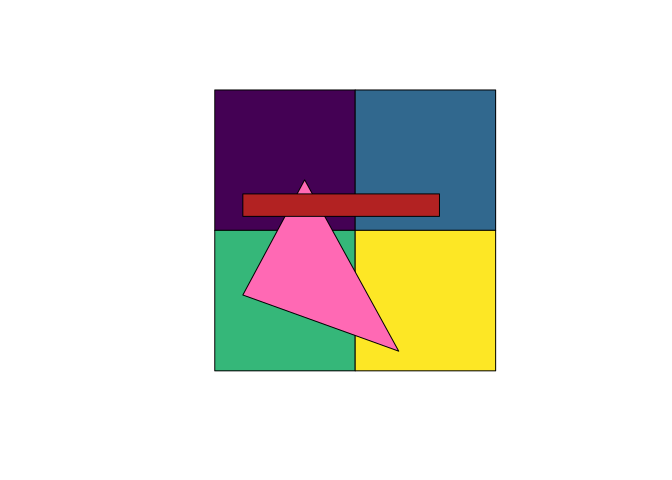
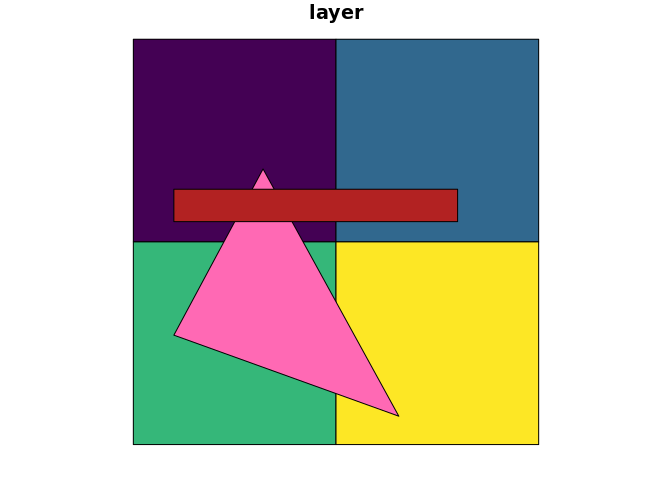
rename

diff --git a/README.md b/README.md
@@ -2,23 +2,23 @@
 <!-- README.md is generated from README.Rmd. Please edit that file -->
 
 [![Travis build
-status](https://travis-ci.org/mdsumner/spacebucket.svg?branch=master)](https://travis-ci.org/mdsumner/spacebucket)
+status](https://travis-ci.org/mdsumner/polymer.svg?branch=master)](https://travis-ci.org/mdsumner/polymer)
 [![AppVeyor build
-status](https://ci.appveyor.com/api/projects/status/github/mdsumner/spacebucket?branch=master&svg=true)](https://ci.appveyor.com/project/mdsumner/spacebucket)
+status](https://ci.appveyor.com/api/projects/status/github/mdsumner/polymer?branch=master&svg=true)](https://ci.appveyor.com/project/mdsumner/polymer)
 [![Coverage
-status](https://codecov.io/gh/mdsumner/spacebucket/branch/master/graph/badge.svg)](https://codecov.io/github/mdsumner/spacebucket?branch=master)
+status](https://codecov.io/gh/mdsumner/polymer/branch/master/graph/badge.svg)](https://codecov.io/github/mdsumner/polymer?branch=master)
 
-# spacebucket
+# polymer
 
-The goal of spacebucket is to provide flexible and intuitive overlay
-methods familiar to GIS workflows. This works by doing the obvious
+The goal of polymer is to provide flexible and intuitive overlay methods
+familiar to GIS workflows. This works by doing the obvious
 finite-element decomposition of all component edges in all inputs into
 triangles. Then triangles *instances* are classified (by
 point-in-polygon lookup) by inclusion within paths within objects within
 layers.
 
 The resulting mesh and inputs and indexes can be used to derive complex
-relationships between layers. Spacebucket is modelled on the concept of
+relationships between layers. polymer is modelled on the concept of
 **data fusion** from a now defunct commercial package called Eonfusion.
 It relies on the RTriangle package which is licensed CC BY-NC-SA 4.0,
 but could be modified to use the less restrictive `decido` package.
@@ -47,7 +47,7 @@ You can install the development version from
 
 ``` r
 # install.packages("devtools")
-devtools::install_github("mdsumner/spacebucket")
+devtools::install_github("mdsumner/polymer")
 ```
 
 ## Example
@@ -56,7 +56,7 @@ This example takes three built in data sets and merges them together as
 an indexed mesh.
 
 ``` r
-library(spacebucket)
+library(polymer)
 plot(sf::st_geometry(A), col = viridis::viridis(nrow(A)))
 plot(sf::st_geometry(B), col = "firebrick", add = TRUE)
 plot(sf::st_geometry(C), col = "dodgerblue", add = TRUE)
@@ -86,7 +86,7 @@ will identify them individually and copy attributes from the input
 layers appropriately.
 
 ``` r
-spacebucket:::sb_intersection(bucket, col = "firebrick")
+polymer:::sb_intersection(bucket, col = "firebrick")
 ```
 
 <img src="man/figures/README-unnamed-chunk-1-1.png" width="100%" />
@@ -94,14 +94,14 @@ spacebucket:::sb_intersection(bucket, col = "firebrick")
 ``` r
 
 ## it works with pairs or with multiple layers
-spacebucket:::sb_intersection(spacebucket(A, B), col = "firebrick")
+polymer:::sb_intersection(spacebucket(A, B), col = "firebrick")
 ```
 
 <img src="man/figures/README-unnamed-chunk-1-2.png" width="100%" />
 
 ``` r
 
-spacebucket:::sb_intersection(spacebucket(C, B), col = "firebrick")
+polymer:::sb_intersection(spacebucket(C, B), col = "firebrick")
 ```
 
 <img src="man/figures/README-unnamed-chunk-1-3.png" width="100%" />
@@ -111,7 +111,7 @@ spacebucket:::sb_intersection(spacebucket(C, B), col = "firebrick")
 
 set.seed(sum(match(unlist(strsplit("spacebucket", "")), letters)))
 ## number of layers is arbitrary
-spacebucket:::sb_intersection(spacebucket(C, B, A, sf::st_jitter(A, 0.1)), col = "firebrick")
+polymer:::sb_intersection(spacebucket(C, B, A, sf::st_jitter(A, 0.1)), col = "firebrick")
 ```
 
 <img src="man/figures/README-unnamed-chunk-1-4.png" width="100%" />
@@ -119,11 +119,8 @@ spacebucket:::sb_intersection(spacebucket(C, B, A, sf::st_jitter(A, 0.1)), col =
 A function `n_intersections` will pull out any \>=n overlaps.
 
 ``` r
-library(basf)
-#> Loading required package: sf
-#> Linking to GEOS 3.6.2, GDAL 2.3.0, proj.4 4.9.3
-#> Loading required package: tibble
-plot(A["layer"], col = viridis::viridis(nrow(A)))
+
+plot(A["layer"], col = viridis::viridis(nrow(A)), reset = FALSE)
 plot(B, add = TRUE, col = "hotpink")
 plot(C, add = TRUE, col = "firebrick")
 ```
@@ -131,13 +128,17 @@ plot(C, add = TRUE, col = "firebrick")
 <img src="man/figures/README-nintersections-1.png" width="100%" />
 
 ``` r
-plot(A["layer"], col = viridis::viridis(nrow(A)))
+plot(A["layer"], col = viridis::viridis(nrow(A)), reset = FALSE)
 plot(B, add = TRUE, col = "hotpink")
 plot(C, add = TRUE, col = "firebrick")
 
 sb <- spacebucket(A, B, C)
 plot(n_intersections(sb), add = TRUE, col = "grey")
+#> Warning in plot.sf(n_intersections(sb), add = TRUE, col = "grey"): ignoring
+#> all but the first attribute
 plot(n_intersections(sb, n = 3), add = TRUE, col = "dodgerblue")
+#> Warning in plot.sf(n_intersections(sb, n = 3), add = TRUE, col =
+#> "dodgerblue"): ignoring all but the first attribute
 ```
 
 <img src="man/figures/README-unnamed-chunk-2-1.png" width="100%" />
@@ -148,24 +149,28 @@ plot(n_intersections(sb, n = 3), add = TRUE, col = "dodgerblue")
 x <- n_intersections(sb, n = 3)
 
 ## see how we know the identity of each input layer
-as_tibble(x) %>%  dplyr::select(-geometry) %>% tidyr::unnest()
+tibble::as_tibble(x) %>%  dplyr::select(-geometry) %>% tidyr::unnest()
+#> Warning: `cols` is now required.
+#> Please use `cols = c(idx.data)`
 #> # A tibble: 6 x 4
-#>   idx.triangle_idx  path object layer
-#>              <int> <int>  <int> <int>
-#> 1               27     1      1     1
-#> 2               27     5      5     2
-#> 3               27     6      6     3
-#> 4               39     1      1     1
-#> 5               39     5      5     2
-#> 6               39     6      6     3
+#>   idx.triangle_idx  path object_ layer
+#>              <int> <int> <chr>   <int>
+#> 1               27     1 W9erlW     NA
+#> 2               27     5 U0UPUI     NA
+#> 3               27     6 p9902a     NA
+#> 4               39     1 W9erlW     NA
+#> 5               39     5 U0UPUI     NA
+#> 6               39     6 p9902a     NA
 ```
 
 ``` r
-plot(soil, col = sf::sf.colors(n = nrow(soil)), border = NA)
+plot(soil, col = sf::sf.colors(n = nrow(soil)), border = NA, reset = FALSE)
 plot(field, add = TRUE, col = NA)
 
 soil_field <- spacebucket(soil, field)
 plot(n_intersections(soil_field), add = TRUE, border = rgb(0.5, 0.5, 0.5, 0.2))
+#> Warning in plot.sf(n_intersections(soil_field), add = TRUE, border =
+#> rgb(0.5, : ignoring all but the first attribute
 ```
 
 <img src="man/figures/README-so-example-1.png" width="100%" />
@@ -174,6 +179,8 @@ From `vignette("over", package = "sp")`.
 
 ``` r
  library(sp)
+library(sf)
+#> Linking to GEOS 3.7.1, GDAL 2.4.2, PROJ 5.2.0
  x = c(0.5, 0.5, 1.0, 1.5)
  y = c(1.5, 0.5, 0.5, 0.5)
  xy = cbind(x,y)
@@ -195,8 +202,19 @@ pol <- st_as_sf(SpatialPolygonsDataFrame(disaggregate(pol), data.frame(a = 1:5))
 #> Polygons:  5
 #> Triangles: 19
 #> (Overlaps: 4)
-plot(polb)
+plot(polb, reset = FALSE)
+#> Warning in polypath(head(x$primitives$P[t(cbind(x$primitives$T,
+#> x$primitives$T[, : "reset" is not a graphical parameter
 plot(n_intersections(polb), add = TRUE, col = rgb(0, 0, 0, 0.3), border = "firebrick", lwd = 2)
+#> Warning in plot.sf(n_intersections(polb), add = TRUE, col = rgb(0, 0, 0, :
+#> ignoring all but the first attribute
 ```
 
 <img src="man/figures/README-over-1.png" width="100%" />
+
+-----
+
+Please note that the polymer project is released with a [Contributor
+Code of
+Conduct](https://contributor-covenant.org/version/1/0/0/CODE_OF_CONDUCT.html).
+By contributing to this project, you agree to abide by its terms.

diff --git a/CODE_OF_CONDUCT.md b/CODE_OF_CONDUCT.md
@@ -1,0 +1,25 @@
+# Contributor Code of Conduct
+
+As contributors and maintainers of this project, we pledge to respect all people who 
+contribute through reporting issues, posting feature requests, updating documentation,
+submitting pull requests or patches, and other activities.
+
+We are committed to making participation in this project a harassment-free experience for
+everyone, regardless of level of experience, gender, gender identity and expression,
+sexual orientation, disability, personal appearance, body size, race, ethnicity, age, or religion.
+
+Examples of unacceptable behavior by participants include the use of sexual language or
+imagery, derogatory comments or personal attacks, trolling, public or private harassment,
+insults, or other unprofessional conduct.
+
+Project maintainers have the right and responsibility to remove, edit, or reject comments,
+commits, code, wiki edits, issues, and other contributions that are not aligned to this 
+Code of Conduct. Project maintainers who do not follow the Code of Conduct may be removed 
+from the project team.
+
+Instances of abusive, harassing, or otherwise unacceptable behavior may be reported by 
+opening an issue or contacting one or more of the project maintainers.
+
+This Code of Conduct is adapted from the Contributor Covenant 
+(https://www.contributor-covenant.org), version 1.0.0, available at 
+https://contributor-covenant.org/version/1/0/0/.
